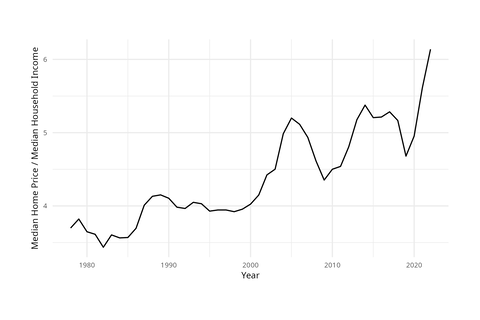
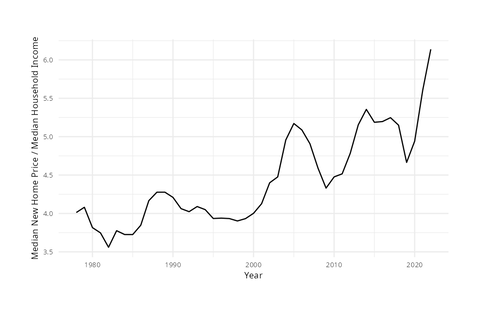
Updates housing graphs and analysis
* Adjusts monthly payment to 20% downpayment
* Updates copy to specify prices are for new housing
* Adds more analysis

diff --git a/_site/2024/01/18/are-houses-actually-more-expensive.html b/_site/2024/01/18/are-houses-actually-more-expensive.html
@@ -10,8 +10,8 @@
 <meta name="generator" content="Jekyll v4.3.3" />
 <meta property="og:title" content="Are Houses Actually More Expensive?" />
 <meta property="og:locale" content="en_US" />
-<meta name="description" content="Every time I compulsively check house prices near me I feel like I am picking at a scab. Everything just seems so crazy expensive it is hard to believe that things have ever been so bad, but is that actually true. It is hard to argue that house prices are higher now, even adjusted for inflation, than they have ever been, and interest rates are still quite high (in early 2024) relative to the past 30 years or so. However, I can’t quite shake the feeling that perhaps what we are really seeing is a return to how housing was earlier in the century. How can we know? I have looked through historic data on house prices, wages, interest rates, and house features to get to the bottom of this question. Are houses really more expensive than they have ever been or were the last couple decades an anomaly of especially low housing prices?" />
-<meta property="og:description" content="Every time I compulsively check house prices near me I feel like I am picking at a scab. Everything just seems so crazy expensive it is hard to believe that things have ever been so bad, but is that actually true. It is hard to argue that house prices are higher now, even adjusted for inflation, than they have ever been, and interest rates are still quite high (in early 2024) relative to the past 30 years or so. However, I can’t quite shake the feeling that perhaps what we are really seeing is a return to how housing was earlier in the century. How can we know? I have looked through historic data on house prices, wages, interest rates, and house features to get to the bottom of this question. Are houses really more expensive than they have ever been or were the last couple decades an anomaly of especially low housing prices?" />
+<meta name="description" content="Every time I compulsively check house prices near me I feel like I am picking at a scab. Everything just seems so crazy expensive it is hard to believe that things have ever been so bad, but is that actually true. It is easy to see that house prices are higher now, even adjusted for inflation, than they have ever been, and interest rates are still quite high (in early 2024) relative to the past 30 years or so. However, I can’t quite shake the feeling that perhaps what we are really seeing is a return to how housing was earlier in the century. How can we know? I have looked through historic data on house prices, wages, interest rates, and house features to get to the bottom of this question. Are houses really more expensive than they have ever been or were the last couple decades an anomaly of especially low housing prices?" />
+<meta property="og:description" content="Every time I compulsively check house prices near me I feel like I am picking at a scab. Everything just seems so crazy expensive it is hard to believe that things have ever been so bad, but is that actually true. It is easy to see that house prices are higher now, even adjusted for inflation, than they have ever been, and interest rates are still quite high (in early 2024) relative to the past 30 years or so. However, I can’t quite shake the feeling that perhaps what we are really seeing is a return to how housing was earlier in the century. How can we know? I have looked through historic data on house prices, wages, interest rates, and house features to get to the bottom of this question. Are houses really more expensive than they have ever been or were the last couple decades an anomaly of especially low housing prices?" />
 <link rel="canonical" href="http://localhost:4000/2024/01/18/are-houses-actually-more-expensive.html" />
 <meta property="og:url" content="http://localhost:4000/2024/01/18/are-houses-actually-more-expensive.html" />
 <meta property="og:site_name" content="Harry Ganz" />
@@ -20,7 +20,7 @@
 <meta name="twitter:card" content="summary" />
 <meta property="twitter:title" content="Are Houses Actually More Expensive?" />
 <script type="application/ld+json">
-{"@context":"https://schema.org","@type":"BlogPosting","dateModified":"2024-01-18T00:00:00-05:00","datePublished":"2024-01-18T00:00:00-05:00","description":"Every time I compulsively check house prices near me I feel like I am picking at a scab. Everything just seems so crazy expensive it is hard to believe that things have ever been so bad, but is that actually true. It is hard to argue that house prices are higher now, even adjusted for inflation, than they have ever been, and interest rates are still quite high (in early 2024) relative to the past 30 years or so. However, I can’t quite shake the feeling that perhaps what we are really seeing is a return to how housing was earlier in the century. How can we know? I have looked through historic data on house prices, wages, interest rates, and house features to get to the bottom of this question. Are houses really more expensive than they have ever been or were the last couple decades an anomaly of especially low housing prices?","headline":"Are Houses Actually More Expensive?","mainEntityOfPage":{"@type":"WebPage","@id":"http://localhost:4000/2024/01/18/are-houses-actually-more-expensive.html"},"url":"http://localhost:4000/2024/01/18/are-houses-actually-more-expensive.html"}</script>
+{"@context":"https://schema.org","@type":"BlogPosting","dateModified":"2024-01-18T00:00:00-05:00","datePublished":"2024-01-18T00:00:00-05:00","description":"Every time I compulsively check house prices near me I feel like I am picking at a scab. Everything just seems so crazy expensive it is hard to believe that things have ever been so bad, but is that actually true. It is easy to see that house prices are higher now, even adjusted for inflation, than they have ever been, and interest rates are still quite high (in early 2024) relative to the past 30 years or so. However, I can’t quite shake the feeling that perhaps what we are really seeing is a return to how housing was earlier in the century. How can we know? I have looked through historic data on house prices, wages, interest rates, and house features to get to the bottom of this question. Are houses really more expensive than they have ever been or were the last couple decades an anomaly of especially low housing prices?","headline":"Are Houses Actually More Expensive?","mainEntityOfPage":{"@type":"WebPage","@id":"http://localhost:4000/2024/01/18/are-houses-actually-more-expensive.html"},"url":"http://localhost:4000/2024/01/18/are-houses-actually-more-expensive.html"}</script>
 <!-- End Jekyll SEO tag -->
 
 </head><body><header>
@@ -61,35 +61,39 @@
         <h2 class="post-title">Are Houses Actually More Expensive?</h2>
     
 
-    <div class="post-content"><p>Every time I compulsively check house prices near me I feel like I am picking at a scab. Everything just seems so crazy expensive it is hard to believe that things have ever been so bad, but is that actually true. It is hard to argue that house prices are higher now, even adjusted for inflation, than they have ever been, and interest rates are still quite high (in early 2024) relative to the past 30 years or so. However, I can’t quite shake the feeling that perhaps what we are really seeing is a return to how housing was earlier in the century. How can we know? I have looked through historic data on house prices, wages, interest rates, and house features to get to the bottom of this question. Are houses really more expensive than they have ever been or were the last couple decades an anomaly of especially low housing prices?</p>
+    <div class="post-content"><p>Every time I compulsively check house prices near me I feel like I am picking at a scab. Everything just seems so crazy expensive it is hard to believe that things have ever been so bad, but is that actually true. It is easy to see that house prices are higher now, even adjusted for inflation, than they have ever been, and interest rates are still quite high (in early 2024) relative to the past 30 years or so. However, I can’t quite shake the feeling that perhaps what we are really seeing is a return to how housing was earlier in the century. How can we know? I have looked through historic data on house prices, wages, interest rates, and house features to get to the bottom of this question. Are houses really more expensive than they have ever been or were the last couple decades an anomaly of especially low housing prices?</p>
 
 <h3 id="house-prices-vs-median-income">House Prices vs. Median Income</h3>
 
-<p>The first graph any Millenial will show to demonstrate how screwed we are when it comes to housing is the ratio of median home price to median household income.</p>
+<p>The first thing that many point to to show how unaffordable housing has become is that household income has not kept up with house prices. To demonstrate this, I found data on new house prices from the U.S. Census Bureau and plotted it against median household income, also from the U.S. Census data. I made sure that both were adjusted for inflation before calculating the ratio of median house price against median household income.</p>
 
 <div class="img-responsive ">
-    <img src="" alt="Ratio of Median Home Price to Median Household Income in the U.S." srcset="/assets/img/med_price_to_med_income.png 1800w, /assets/img/med_price_to_med_income-480w.png 480w, /assets/img/med_price_to_med_income-600w.png 600w, /assets/img/med_price_to_med_income-720w.png 720w" sizes="(max-width: 600px) 100vw, (max-width: 1200px) 600px, 720px" />
+    <img src="" alt="Ratio of Median New Home Price to Median Household Income in the U.S." srcset="/assets/img/med_price_to_med_income.png 1800w, /assets/img/med_price_to_med_income-480w.png 480w, /assets/img/med_price_to_med_income-600w.png 600w, /assets/img/med_price_to_med_income-720w.png 720w" sizes="(max-width: 600px) 100vw, (max-width: 1200px) 600px, 720px" />
     
-        <p class="caption">Ratio of Median Home Price to Median Household Income from 1978-2022 in the U.S.</p>
+        <p class="caption">Ratio of Median New Home Price to Median Household Income from 1978-2022 in the U.S.</p>
     
 </div>
 
-<p>This graph is striking. Someone earning the median income in 1980 could buy a median house for around 3.5 times their annual income, while in 2022 someone earning the median income would need nearly 6 times their annual income to afford a median priced house.</p>
+<p>This graph is striking. Someone earning the median income in 1980 could buy a median priced new home for around 3.5 times their annual income, while in 2022 someone earning the median income would need nearly 6 times their annual income.</p>
 
-<p>Does this graph tell the whole story, though? Does house prices versus income really indicate how affordable a house is? After all, the sticker price of a house is only one factor affecting affordability, the other major factor is your mortgage rate. The 1980s were notorious for having mortgage interest rates in the double digits while mortgage interest rates in 2021 neared historic lows approaching 3%. If people are mostly worried about being able to afford housing, not the overall cost of the house, could it be the case that houses were actually more affordable in 2021 than they were in 1980, on cost per month as a fraction of income basis?</p>
+<p>However, I suspect that this graph doesn’t tell the whole story. Very few people buy houses outright. Most need a mortgage, and monthly payments are determined by interest rates set by the Federal Reserve. Could the double digit inflation environment of the early 1980s mean that houses are actually more affordable now despite being more expensive?</p>
 
 <h3 id="median-monthly-payment-vs-median-monthly-income">Median Monthly Payment vs. Median Monthly Income</h3>
 
-<p>Using the average 30-year mortgage rate per year and using that to calculate the expected monthly payment for a median house, we can answer the question of whether housing has actually become less affordable, as a fraction of income.</p>
+<p>To answer the question of how much interest rates affect housing affordability, I used the Federal Reserve’s data on average mortgage rates, combined with my existing data on house prices, to calculate the expected monthly payment of a 30 year fixed mortgage, assuming a 20% down payment.</p>
 
 <div class="img-responsive ">
-    <img src="" alt="Percentage of Median Monthly Income Required for Mortgage Payment on Median Home in the U.S. from 1978-2022" srcset="/assets/img/monthly_payment_to_monthly_income.png 900w, /assets/img/monthly_payment_to_monthly_income-480w.png 480w, /assets/img/monthly_payment_to_monthly_income-600w.png 600w, /assets/img/monthly_payment_to_monthly_income-720w.png 720w" sizes="(max-width: 600px) 100vw, (max-width: 1200px) 600px, 720px" />
+    <img src="" alt="Percentage of Median Monthly Income Required for Mortgage Payment on Median New Home in the U.S. from 1978-2022" srcset="/assets/img/monthly_payment_to_monthly_income.png 900w, /assets/img/monthly_payment_to_monthly_income-480w.png 480w, /assets/img/monthly_payment_to_monthly_income-600w.png 600w, /assets/img/monthly_payment_to_monthly_income-720w.png 720w" sizes="(max-width: 600px) 100vw, (max-width: 1200px) 600px, 720px" />
     
-        <p class="caption">Percentage of Median Monthly Income Required for Mortgage Payment on Median Hom ein the U.S. from 1978-2022.</p>
+        <p class="caption">Percentage of Median Monthly Income Required for Mortgage Payment on Median New Home in the U.S. from 1978-2022.</p>
     
 </div>
 
-<p>This graph tells a slightly different story. While the house prices were considerably lower in the early 1980s, the wild interest rates made them considerably less affordable than they are now. Someone purchasing a median home would have to spend nearly 60% of a median income on mortgage payments per month, while someone purchasing a median home in 2020 would spend only around 25% of a median income on mortgage payments.</p>
+<p>This graph tells a different story. Despite house prices being lowest in the early 1980s, the expected payment on the median new home was around 50% of median household income; while between 2010 and 2020 the monthly payment on a median new home hovered between 25% and 30% of median monthly income. So, assuming you could somehow save enough money to afford a down payment on a very expensive home, someone buying a home between 2010 and 2020 paid less, as a fraction of income, than someone in the 1980s.</p>
+
+<p>All that being said, the latest round of inflation has pretty much erased all the differences in monthly payment affordability since the 1990s, and this is compounded by the problems of saving enough for a down payment. Also, those who purchased when monthly payments were relatively more expensive most likely refinanced to take advantage of lower rates in the 1990s and early 2000s, while still taking advantage of their relatively inexpensive homes.</p>
+
+<p>One other trend that might be worthwhile to look at is what homeowners are getting for their money. One response I have heard to how expensive houses have become is that houses have gotten bigger; so, perhaps, the price per square foot has remained pretty much the same but homes are just larger. I don’t really think this argument is that meaningful as the ultimate problem of housing affordability is that it is difficult to find a house that is affordable. The fact that the house I cannot afford is twice as big as the house that I could have afforded 30 years ago is not much of a solace. Even so, let’s take a look at the data and see what it tells us.</p>
 </div>
 
     

diff --git a/_site/index.html b/_site/index.html
@@ -64,7 +64,7 @@
             <div class="flex flex-col">
                 <a href="/2024/01/18/are-houses-actually-more-expensive.html" class="bhead">Are Houses Actually More Expensive?</a>
                 <p class="byline">18 January 2024</p>
-                <p class="p-l-1">Every time I compulsively check house prices near me I feel like I am picking at a scab. Everything just seems so crazy expensive it is hard to believe that things have ever been so bad, but is that actually true. It is hard to argue that house prices are higher now, even adjusted for inflation, than they have ever been, and interest rates are still quite high (in early 2024) relative to the past 30 years or so. However, I can’t quite shake the feeling that perhaps what we are really seeing is a return to how housing was earlier in the century. How can we know? I have looked through historic data on house prices, wages, interest rates, and house features to get to the bottom of this question. Are houses really more expensive than they have ever been or were the last couple decades an anomaly of especially low housing prices?
+                <p class="p-l-1">Every time I compulsively check house prices near me I feel like I am picking at a scab. Everything just seems so crazy expensive it is hard to believe that things have ever been so bad, but is that actually true. It is easy to see that house prices are higher now, even adjusted for inflation, than they have ever been, and interest rates are still quite high (in early 2024) relative to the past 30 years or so. However, I can’t quite shake the feeling that perhaps what we are really seeing is a return to how housing was earlier in the century. How can we know? I have looked through historic data on house prices, wages, interest rates, and house features to get to the bottom of this question. Are houses really more expensive than they have ever been or were the last couple decades an anomaly of especially low housing prices?
 </p>
             </div>
         

diff --git a/_drafts/2024-01-18-are-houses-actually-more-expensive.md b/_drafts/2024-01-18-are-houses-actually-more-expensive.md
@@ -3,22 +3,26 @@ layout: post
 title: Are Houses Actually More Expensive?
 ---
 
-Every time I compulsively check house prices near me I feel like I am picking at a scab. Everything just seems so crazy expensive it is hard to believe that things have ever been so bad, but is that actually true. It is hard to argue that house prices are higher now, even adjusted for inflation, than they have ever been, and interest rates are still quite high (in early 2024) relative to the past 30 years or so. However, I can't quite shake the feeling that perhaps what we are really seeing is a return to how housing was earlier in the century. How can we know? I have looked through historic data on house prices, wages, interest rates, and house features to get to the bottom of this question. Are houses really more expensive than they have ever been or were the last couple decades an anomaly of especially low housing prices?
+Every time I compulsively check house prices near me I feel like I am picking at a scab. Everything just seems so crazy expensive it is hard to believe that things have ever been so bad, but is that actually true. It is easy to see that house prices are higher now, even adjusted for inflation, than they have ever been, and interest rates are still quite high (in early 2024) relative to the past 30 years or so. However, I can't quite shake the feeling that perhaps what we are really seeing is a return to how housing was earlier in the century. How can we know? I have looked through historic data on house prices, wages, interest rates, and house features to get to the bottom of this question. Are houses really more expensive than they have ever been or were the last couple decades an anomaly of especially low housing prices?
 
 ### House Prices vs. Median Income
 
-The first graph any Millenial will show to demonstrate how screwed we are when it comes to housing is the ratio of median home price to median household income.
+The first thing that many point to to show how unaffordable housing has become is that household income has not kept up with house prices. To demonstrate this, I found data on new house prices from the U.S. Census Bureau and plotted it against median household income, also from the U.S. Census data. I made sure that both were adjusted for inflation before calculating the ratio of median house price against median household income.
 
-{% include responsive-image.html src="/assets/img/med_price_to_med_income.png" alt="Ratio of Median Home Price to Median Household Income in the U.S." caption="Ratio of Median Home Price to Median Household Income from 1978-2022 in the U.S." %}
+{% include responsive-image.html src="/assets/img/med_price_to_med_income.png" alt="Ratio of Median New Home Price to Median Household Income in the U.S." caption="Ratio of Median New Home Price to Median Household Income from 1978-2022 in the U.S." %}
 
-This graph is striking. Someone earning the median income in 1980 could buy a median house for around 3.5 times their annual income, while in 2022 someone earning the median income would need nearly 6 times their annual income to afford a median priced house.
+This graph is striking. Someone earning the median income in 1980 could buy a median priced new home for around 3.5 times their annual income, while in 2022 someone earning the median income would need nearly 6 times their annual income.
 
-Does this graph tell the whole story, though? Does house prices versus income really indicate how affordable a house is? After all, the sticker price of a house is only one factor affecting affordability, the other major factor is your mortgage rate. The 1980s were notorious for having mortgage interest rates in the double digits while mortgage interest rates in 2021 neared historic lows approaching 3%. If people are mostly worried about being able to afford housing, not the overall cost of the house, could it be the case that houses were actually more affordable in 2021 than they were in 1980, on cost per month as a fraction of income basis?
+However, I suspect that this graph doesn't tell the whole story. Very few people buy houses outright. Most need a mortgage, and monthly payments are determined by interest rates set by the Federal Reserve. Could the double digit inflation environment of the early 1980s mean that houses are actually more affordable now despite being more expensive?
 
 ### Median Monthly Payment vs. Median Monthly Income
 
-Using the average 30-year mortgage rate per year and using that to calculate the expected monthly payment for a median house, we can answer the question of whether housing has actually become less affordable, as a fraction of income. 
+To answer the question of how much interest rates affect housing affordability, I used the Federal Reserve's data on average mortgage rates, combined with my existing data on house prices, to calculate the expected monthly payment of a 30 year fixed mortgage, assuming a 20% down payment. 
 
-{% include responsive-image.html src="/assets/img/monthly_payment_to_monthly_income.png" alt="Percentage of Median Monthly Income Required for Mortgage Payment on Median Home in the U.S. from 1978-2022" caption="Percentage of Median Monthly Income Required for Mortgage Payment on Median Hom ein the U.S. from 1978-2022." %}
+{% include responsive-image.html src="/assets/img/monthly_payment_to_monthly_income.png" alt="Percentage of Median Monthly Income Required for Mortgage Payment on Median New Home in the U.S. from 1978-2022" caption="Percentage of Median Monthly Income Required for Mortgage Payment on Median New Home in the U.S. from 1978-2022." %}
 
-This graph tells a slightly different story. While the house prices were considerably lower in the early 1980s, the wild interest rates made them considerably less affordable than they are now. Someone purchasing a median home would have to spend nearly 60% of a median income on mortgage payments per month, while someone purchasing a median home in 2020 would spend only around 25% of a median income on mortgage payments. 
+This graph tells a different story. Despite house prices being lowest in the early 1980s, the expected payment on the median new home was around 50% of median household income; while between 2010 and 2020 the monthly payment on a median new home hovered between 25% and 30% of median monthly income. So, assuming you could somehow save enough money to afford a down payment on a very expensive home, someone buying a home between 2010 and 2020 paid less, as a fraction of income, than someone in the 1980s. 
+
+All that being said, the latest round of inflation has pretty much erased all the differences in monthly payment affordability since the 1990s, and this is compounded by the problems of saving enough for a down payment. Also, those who purchased when monthly payments were relatively more expensive most likely refinanced to take advantage of lower rates in the 1990s and early 2000s, while still taking advantage of their relatively inexpensive homes. 
+
+One other trend that might be worthwhile to look at is what homeowners are getting for their money. One response I have heard to how expensive houses have become is that houses have gotten bigger; so, perhaps, the price per square foot has remained pretty much the same but homes are just larger. I don't really think this argument is that meaningful as the ultimate problem of housing affordability is that it is difficult to find a house that is affordable. The fact that the house I cannot afford is twice as big as the house that I could have afforded 30 years ago is not much of a solace. Even so, let's take a look at the data and see what it tells us. 
